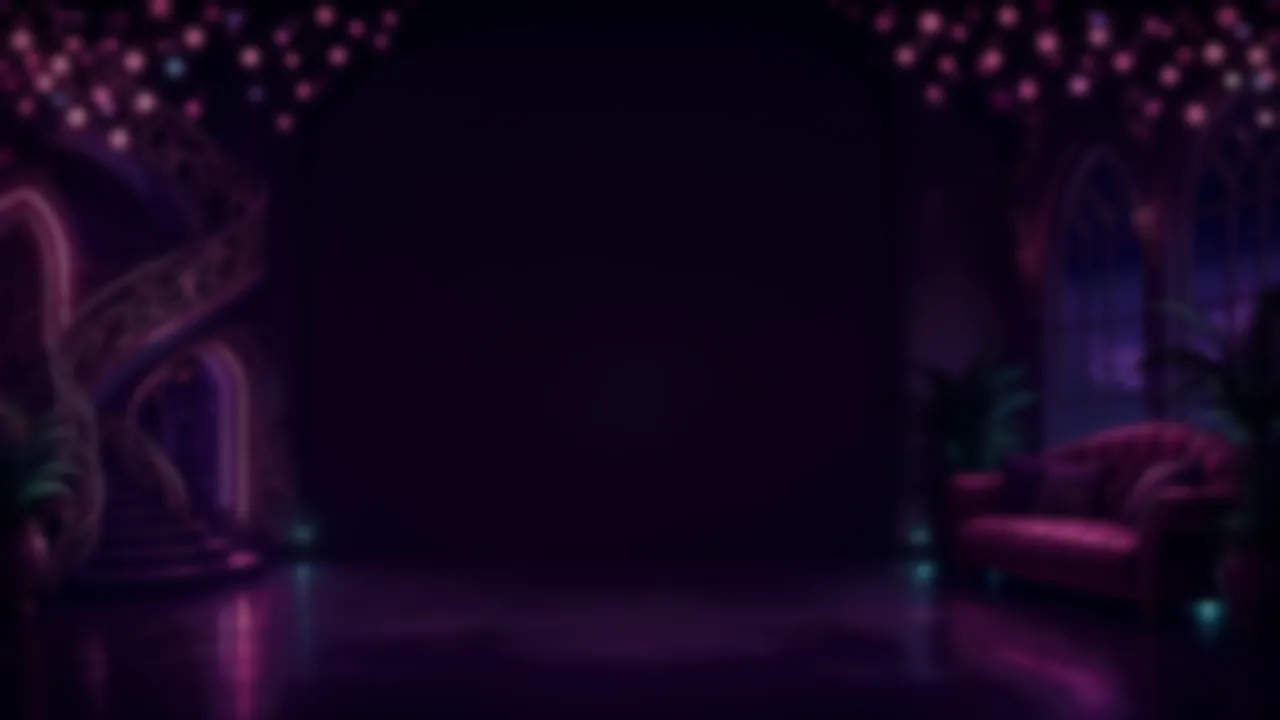
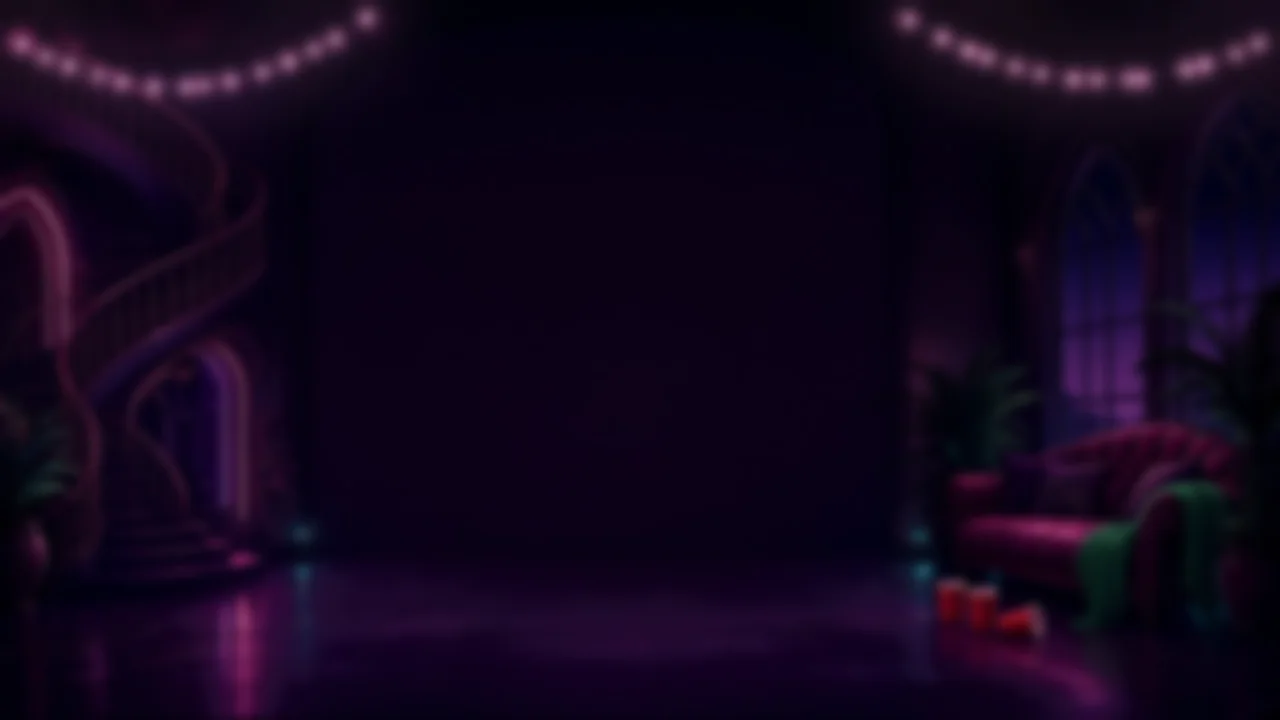
elfhaus: max-win backdrop from brand-v3 Lounge (blur r5, x0.81, same sizes) + remove falling confetti from max win; APPROVED_ASSETS.md

diff --git a/frontend/apps/elfhaus/src/game/maxwin.ts b/frontend/apps/elfhaus/src/game/maxwin.ts
@@ -93,12 +93,7 @@ export async function maxWinCelebration() {
 	await loadBg();                                                    // (orientation may have changed since the preload)
 	const bgEl = M.querySelector('.mwBg') as HTMLElement | null; if (bgEl) bgEl.style.backgroundImage = `url(${bgUrl()})`;
 	const crowd = document.createElement('div'); crowd.className = 'mwCrowd'; stage.appendChild(crowd);
-	const conf = document.createElement('div'); conf.className = 'mwConfetti'; stage.insertBefore(conf, crowd);
-	const portrait = document.body.classList.contains('portrait');
-	for (let i = 0; i < (portrait ? 3 : 1); i++) {                       // 16:9 confetti tiles, stacked in portrait
-		const t = document.createElement('div'); t.className = 'mwConfTile'; t.style.top = `calc(${i} * 100 * var(--vw) * 9 / 16)`; conf.appendChild(t);
-		run('maxwin_confetti', 'fall', t, { delay: 150 + i * 270 });
-	}
+	// calm screen: no falling paper confetti over the max win (turbo/skip unchanged)
 	const xEl = M.querySelector('.mwX') as HTMLElement, amtEl = M.querySelector('.mwAmt') as HTMLElement, hint = M.querySelector('.mwHint') as HTMLElement;
 	const tier = M.querySelector('.mwTier') as HTMLElement; tier.classList.add('spr');
 	const total = MAX_WIN_X * bet(); let skipped = false;
@@ -140,7 +135,7 @@ export async function maxWinCelebration() {
 	M.classList.add('out');                                            // fade + slide the row down (CSS, transform/opacity)
 	await new Promise<void>((r) => (rig ? rig.at(rig.ms + 600, r) : setTimeout(r, 600)));   // on the rig's rAF clock: the elves keep moving through the fade
 	timers.splice(0).forEach(clearTimeout); live.forEach((a) => stop(a)); live.clear(); rig?.destroy(); rig = null;
-	crowd.remove(); conf.remove(); if (bgEl) bgEl.style.backgroundImage = ''; tier.classList.remove('spr', 'pop');
+	crowd.remove(); if (bgEl) bgEl.style.backgroundImage = ''; tier.classList.remove('spr', 'pop');
 	M.classList.add('hidden'); M.classList.remove('on', 'landed', 'held', 'out');
 	releaseMaxWin();
 }

diff --git a/frontend/apps/elfhaus/APPROVED_ASSETS.md b/frontend/apps/elfhaus/APPROVED_ASSETS.md
@@ -29,6 +29,7 @@ Branch `final` is the integration branch. It holds **only** work the user has ap
 | Per-elf face reactions after a full-reel stack merges (R1 Roxy grin/wink/ahegao, R2 Jade, R3 Vi, R4 Coco, R5 Delilah; ~2.6-2.75 s at 12 fps, ~100 KB webp, ~1.1 MB decoded all five; built on stacks r8d) | `/workspace/elfhaus-stack-react/out/stack_react_R1..R5.{webp,atlas.json}` -> `static/assets/stacks/` (not listed in index.json); `out/INTEGRATION.md` -> `docs/STACK_REACT_INTEGRATION.md`. Status: **in** (hooked into stackIn's calm stack-from-singles path: body holds merge_idle frame 0, `stack_react_R<n>` plays once at 12 fps on a `stk_react` layer, then idle; letters + frame draw in alongside; turbo / tap / merge go straight to idle; a win bounce on that reel waits for the reaction) | 2026-10-25 4:44 PM ("It all looks good to me") |
 | AI-audit code fixes (aifix): no sparkles (a411067, 6b3a3d2), calm wild landing (002e837, no longer on hold), per-reel single wilds W_R1..W_R5 (1f47d9c), pink circles/rings removed (de3e825), outline win glow (95134cd + cdd41b6: uses the symbols-v3 `symbol_*_glow.webp`; the temp `webp/glow/` files are only a fallback and are not copied into the build), splash Lounge plate (5a2a65b), buy cards with in-game art (6b1a3a0), rules trim (fdcdb16), no lavender loader flash (ce3bbe9), one HUD icon language (d000e2b), side Roxy contact shadow (6a17c61), FS intro/outro card + win-title type system using brand-v3 `assets/final/titles` (f6a2f14), minimal settings panel (6b4b1b4), static grain + glow budget (075dd33) | branch `aifix`, cherry-picked in order onto final (here 2c2d2c7 69126e8 319f0ab 709db78 ee11157 0449260 c66284e 6c1be8b c0c0b89 c922c77 e7a0ccb 8e046ed 462d1c4 515a0cc 6c61780 c2c8ef3). Conflict: Game.svelte (f6a2f14): kept aifix's START intro button, kept final's cast-v6 #maxwin markup (no inline background_fs). Status: **in** | 2026-10-25 ~4:57 PM |
 | Calm reel spin + gentle landing (58cf6b0) and full-reel wild forming from the merging singles (cf05fe3); turbo unchanged | branch `spinfix`, here 484b606, 8ef1f8a (80adff0 skipped: duplicate of 1f47d9c). Status: **in** | 2026-10-25 ~4:57 PM |
+| Max-win backdrop re-made from the brand-v3 Lounge (no old bokeh dots) + falling paper confetti removed from the max win (big-win / FS cards already confetti-free via aifix featfx); turbo/skip unchanged | `src/assets/maxwin/maxwin_bg_land.webp` 1280x720 / `maxwin_bg_port.webp` 720x1280 from `static/art/background.webp` / `background_portrait.webp` (= brand-v3 lounge plates, base not _fs, as before): LANCZOS resize, PIL GaussianBlur r=5, x0.817 (land) / x0.811 (port), webp q85 method 6 (recipe fitted against the old files, MSE ~2.4). `maxwin_confetti` sheet + json deleted; confetti tiles removed from `maxwin.ts`. Status: **in** | 2026-10-25 ~5:15 PM (calm-screen rule) |
 | Pipeline/QA commits | 2c88dba fd709ea 477db47 576e609 0f992c6 9b509d6 11b3200 (import guard, dev PORT, egw_wm5 book, runbook, tsc fixes) | n/a (tooling) |
 
 ## Approved but held (do not import yet)
